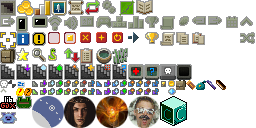
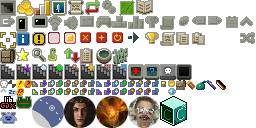
v3.3.5: added a new emoicon for investigating and improved emoicon code

Changed region(s): [[0.0312, 0.625, 0.125, 0.75]]

diff --git a/core/src/main/java/com/shatteredpixel/shatteredpixeldungeon/effects/EmoIcon.java b/core/src/main/java/com/shatteredpixel/shatteredpixeldungeon/effects/EmoIcon.java
@@ -22,17 +22,19 @@
 package com.shatteredpixel.shatteredpixeldungeon.effects;
 
 import com.shatteredpixel.shatteredpixeldungeon.scenes.DungeonScene;
+import com.shatteredpixel.shatteredpixeldungeon.scenes.PixelScene;
 import com.shatteredpixel.shatteredpixeldungeon.sprites.CharSprite;
 import com.shatteredpixel.shatteredpixeldungeon.ui.Icons;
 import com.watabou.noosa.Game;
 import com.watabou.noosa.Image;
+import com.watabou.utils.PointF;
 import com.watabou.utils.Random;
 
 public class EmoIcon extends Image {
 
 	protected float maxSize = 2;
 	protected float timeScale = 1;
-	
+
 	protected boolean growing	= true;
 	
 	protected CharSprite owner;
@@ -47,7 +49,7 @@ public class EmoIcon extends Image {
 	@Override
 	public void update() {
 		super.update();
-		
+
 		if (visible) {
 			if (growing) {
 				scale.set( Math.min(scale.x + Game.elapsed * timeScale, maxSize ));
@@ -60,10 +62,17 @@ public class EmoIcon extends Image {
 					growing = true;
 				}
 			}
-			
-			x = owner.x + owner.width() - width / 2;
-			y = owner.y - height;
+
+			if (camera != null) {
+				PointF center = centerPoint();
+				x = PixelScene.align(camera, owner.x + owner.width() - center.x);
+				y = PixelScene.align(camera, owner.y - center.y);
+			}
 		}
+	}
+
+	protected PointF centerPoint(){
+		return new PointF(width()/2f, height()/2f);
 	}
 	
 	public static class Sleep extends EmoIcon {
@@ -77,11 +86,16 @@ public class EmoIcon extends Image {
 			maxSize = 1.2f;
 			timeScale = 0.5f;
 			
-			origin.set( width / 2, height / 2 );
 			scale.set( Random.Float( 1, maxSize ) );
 
 			x = owner.x + owner.width - width / 2;
 			y = owner.y - height;
+		}
+
+		@Override
+		protected PointF centerPoint(){
+			//centered and significantly up
+			return new PointF(width()/2f, 4f+ height()/2f);
 		}
 	}
 	
@@ -96,11 +110,40 @@ public class EmoIcon extends Image {
 			maxSize = 1.3f;
 			timeScale = 2;
 			
-			origin.set( 2.5f, height - 2.5f );
 			scale.set( Random.Float( 1, maxSize ) );
 
 			x = owner.x + owner.width - width / 2;
 			y = owner.y - height;
+		}
+
+		@Override
+		protected PointF centerPoint(){
+			//up and left, and centers at the bottom-left
+			return new PointF(2.5f + 0.25f*width(), 2.5f + 0.75f*height());
+		}
+	}
+
+	public static class Investigate extends EmoIcon {
+
+		public Investigate( CharSprite owner ) {
+
+			super( owner );
+
+			copy( Icons.get( Icons.INVESTIGATE ) );
+
+			maxSize = 1.3f;
+			timeScale = 1.5f;
+
+			scale.set( Random.Float( 1, maxSize ) );
+
+			x = owner.x + owner.width - width / 2;
+			y = owner.y - height;
+		}
+
+		@Override
+		protected PointF centerPoint(){
+			//up and left, and centers at the bottom-left
+			return new PointF(2.5f + 0.25f*width(), 2.5f + 0.75f*height());
 		}
 	}
 	
@@ -114,13 +157,17 @@ public class EmoIcon extends Image {
 			maxSize = 1.25f;
 			timeScale = 1;
 			
-			origin.set( 2.5f, height - 2.5f );
 			scale.set( Random.Float( 1, maxSize ) );
 			
 			x = owner.x + owner.width - width / 2;
 			y = owner.y - height;
 		}
-		
+
+		@Override
+		protected PointF centerPoint(){
+			//up and left, and centers at the bottom-left
+			return new PointF(2.5f + 0.25f*width(), 2.5f + 0.75f*height());
+		}
 	}
 
 }

diff --git a/core/src/main/java/com/shatteredpixel/shatteredpixeldungeon/ui/Icons.java b/core/src/main/java/com/shatteredpixel/shatteredpixeldungeon/ui/Icons.java
@@ -163,6 +163,7 @@ public enum Icons {
 	SLEEP,
 	ALERT,
 	LOST,
+	INVESTIGATE,
 	DEPTH,      //depth icons have three variants, for regular, seeded, daily, and daily replay runs
 	DEPTH_CHASM,
 	DEPTH_WATER,
@@ -538,13 +539,16 @@ public enum Icons {
 				icon.frame( icon.texture.uvRectBySize( 0, 88, 7, 5 ) );
 				break;
 			case SLEEP:
-				icon.frame( icon.texture.uvRectBySize( 16, 80, 9, 8 ) );
+				icon.frame( icon.texture.uvRectBySize( 7, 88, 9, 8 ) );
 				break;
 			case ALERT:
-				icon.frame( icon.texture.uvRectBySize( 16, 88, 8, 8 ) );
+				icon.frame( icon.texture.uvRectBySize( 16, 80, 8, 8 ) );
 				break;
 			case LOST:
-				icon.frame( icon.texture.uvRectBySize( 24, 88, 8, 8 ) );
+				icon.frame( icon.texture.uvRectBySize( 24, 80, 8, 8 ) );
+				break;
+			case INVESTIGATE:
+				icon.frame( icon.texture.uvRectBySize( 16, 88, 8, 8 ) );
 				break;
 			case DEPTH:
 				icon.frame( icon.texture.uvRectBySize( 32 + runTypeOfsX(), 80 + runTypeOfsY(), 6, 7 ) );

diff --git a/core/src/main/java/com/shatteredpixel/shatteredpixeldungeon/sprites/CharSprite.java b/core/src/main/java/com/shatteredpixel/shatteredpixeldungeon/sprites/CharSprite.java
@@ -826,6 +826,27 @@ public class CharSprite extends MovieClip implements Tweener.Listener, MovieClip
 			}
 		}
 	}
+
+	public void showInvestigate() {
+		synchronized (EmoIcon.class) {
+			if (!(emo instanceof EmoIcon.Investigate)) {
+				if (emo != null) {
+					emo.killAndErase();
+				}
+				emo = new EmoIcon.Investigate(this);
+				emo.visible = visible;
+			}
+		}
+	}
+
+	public void hideInvestigate() {
+		synchronized (EmoIcon.class) {
+			if (emo instanceof EmoIcon.Investigate) {
+				emo.killAndErase();
+				emo = null;
+			}
+		}
+	}
 	
 	public void showLost() {
 		synchronized (EmoIcon.class) {
@@ -878,7 +899,7 @@ public class CharSprite extends MovieClip implements Tweener.Listener, MovieClip
 		if (extraCode != null) extraCode.onKill(this);
 	}
 
-	private float[] shadowMatrix = new float[16];
+	private final float[] shadowMatrix = new float[16];
 
 	@Override
 	protected void updateMatrix() {
